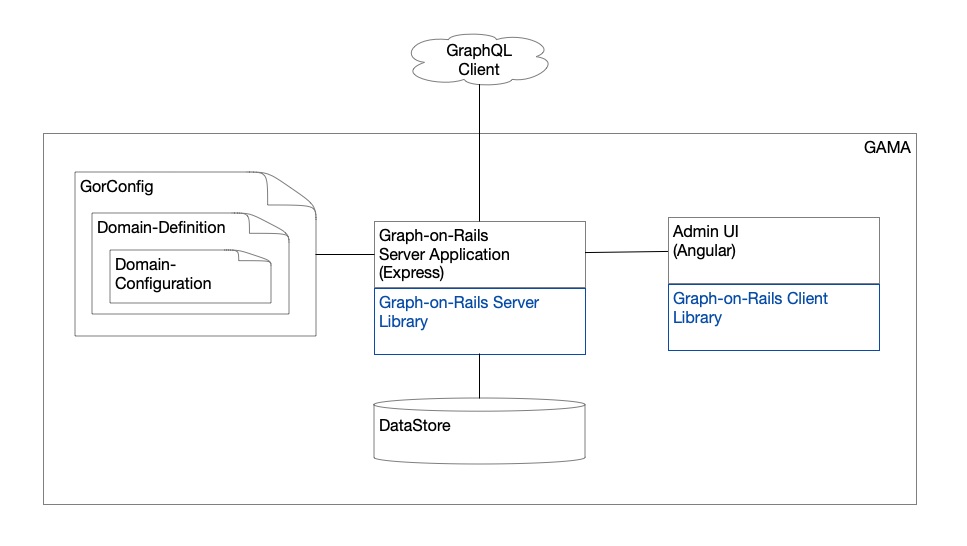
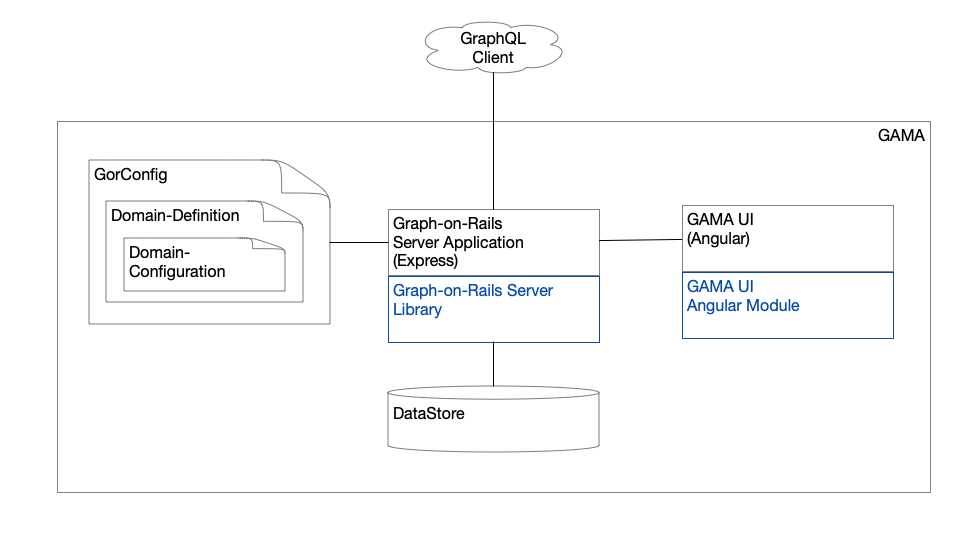
ok

diff --git a/libs/doc/gama.md b/libs/doc/gama.md
@@ -1,23 +1,38 @@
 # GAMA
 
+We think [GraphQL](https://graphql.org) is a great way to expose your business domain to any client or 3rd party system. 
+Implementing a GraphQL API is a tedious task though. You need to decide how to structure your schema, how to handle
+concepts like searching, sorting, paging etc. Writing resolvers that read data from and write data to a database or
+similar etc etc.
+
+GAMA supports this development with an oppinionated approach based on the configuration of a business domain 
+(mainly entities and its relations to each other). You can check out the simplicity and power 
+of a business-domain-configuration-based API creation by looking at an simple 
+[Example for an Entity Configuration](./entity-configuration.md#example).
+
+
+## Technologies 
+
 GAMA is an acronym for **G**raphQL-**A**pollo-**M**ongodb-**A**ngular which should indicate the technologies it uses 
 to provide a framework for business domain driven APIs / applications. 
 
-We think [GraphQL](https://graphql.org) is a great way to expose your business domain to any client or 3rd party system. 
+Although you can use GAMA without deep knowledge of the underlying technologies - in fact GAMAs goal is exactly
+to enable you to fully concentrate on your business domain without the need to engage in technical details - we 
+encourage to familiarize with this technologies:
 
-GAMA is a [NodeJS](https://nodejs.org) framework that uses [Express](http://expressjs.com). 
+- GAMA is a [NodeJS](https://nodejs.org) framework that uses [Express](http://expressjs.com). 
 
-It uses the [Apollo Data Graph Platform](https://www.apollographql.com) 
+- It uses the [Apollo Data Graph Platform](https://www.apollographql.com) 
 and the [Apollo Server Express Middleware](https://www.apollographql.com/docs/apollo-server/)
 
-The configuration of your business domain can be done in Javascript/[Typescript](https://www.typescriptlang.org) or
+- The configuration of your business domain can be done in Javascript/[Typescript](https://www.typescriptlang.org) or
 in [YAML](https://yaml.org) files 
 
-GAMA has the concept of a _datastore_ where application data are read from and written to. GAMA ships with a default
+- GAMA has the concept of a _datastore_ where application data are read from and written to. GAMA ships with a default
 implementation of a datastore that uses [MongoDB](https://www.mongodb.com/try/download/community). Other 
 implemenatations that use e.g. relational databeses or even another API (e.g. REST) can be implemented.
 
-It also includes an [Angular](https://angular.io) application that provides a generic Admin UI if you want to 
+- It also includes an [Angular](https://angular.io) application that provides a generic Admin UI if you want to 
 provide users with the possibility to access your business domain API via web application.
 
 ## Overview
@@ -44,4 +59,12 @@ a GraphQL API. It uses a typed configuration to easily express domain logic from
 
 ### Graph-on-Rails Server Application
 
-The server application is and 
+The server application ... TODO
+
+### GAMA UI Angular Module
+
+Angular Module ... TODO
+
+### GAMA UI Angular Application
+
+Angular Application ... TODO

diff --git a/libs/doc/entity-configuration.md b/libs/doc/entity-configuration.md
@@ -39,7 +39,7 @@ You can also write the entity configuration in yaml files and simply includes th
 [Domain Definition](./domain-definition).
 
 
-## Example
+## <a name="example"></a> Example
 
 _YAML_
 ```yaml 
